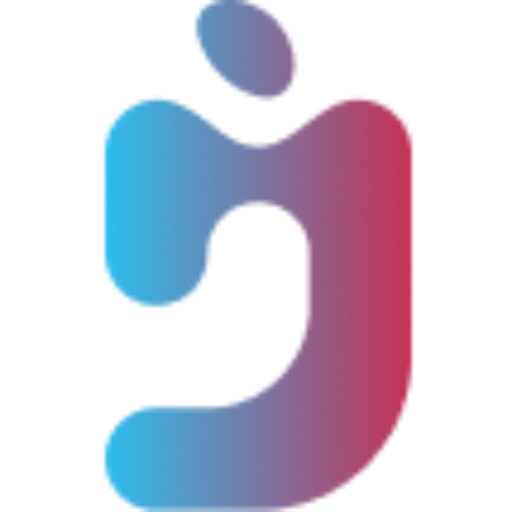
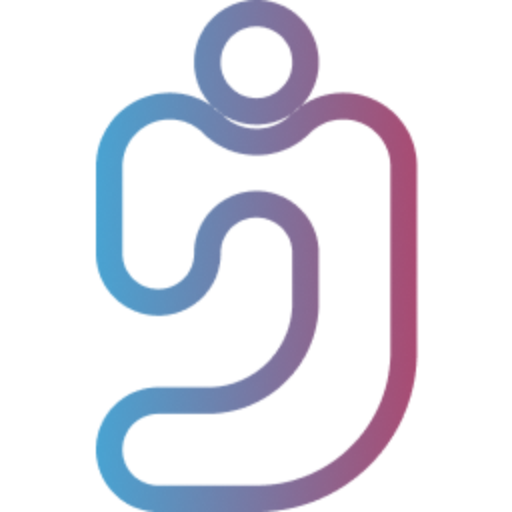
chore: branding update

diff --git a/index.html b/index.html
@@ -37,7 +37,7 @@
   <script>
     window.$docsify = {
       loadNavbar: true,
-      logo: "/static/img/i11n-docs.svg",
+      logo: "/static/img/docs.svg",
       coverpage: 'coverpage.md',
       notFoundPage: '_404.md',
       name: 'integereleven docs',

diff --git a/_navbar.md b/_navbar.md
@@ -1,5 +1,5 @@
 <!-- * Projects
-  * [Zeta UI Framework](https://docs.integer11.org/zeta/ "Zeta UI library and framework")
+  * [Zeta UI Framework](https://docs.i11n.io/zeta/ "Zeta UI library and framework")
 * Applications
 * APIs -->
 * [EX2](https://docs.i11n.io/ex2/ "Exception Explainer")

diff --git a/coverpage.md b/coverpage.md
@@ -1,5 +1,5 @@
 
-[![alt](https://raw.githubusercontent.com/i11n/.github/main/svg/brand/color/text-soft.svg)](?id=main)
+[![alt](https://raw.githubusercontent.com/i11n/.github/main/img/brand/text-stroke-64.svg)](?id=main)
 
 # Documentation
 
